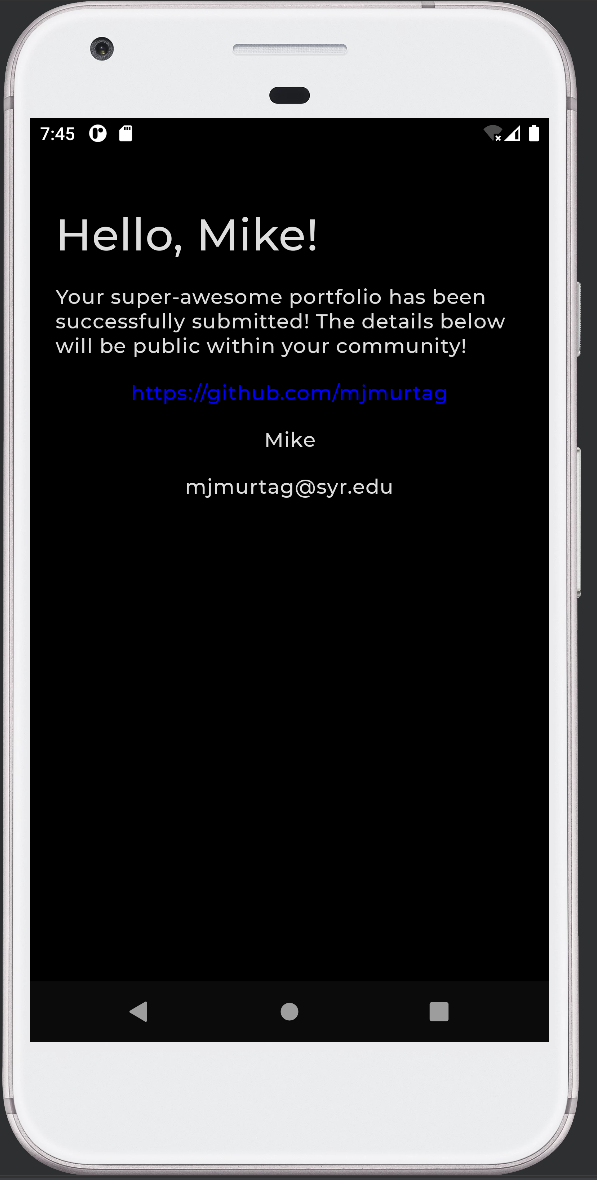
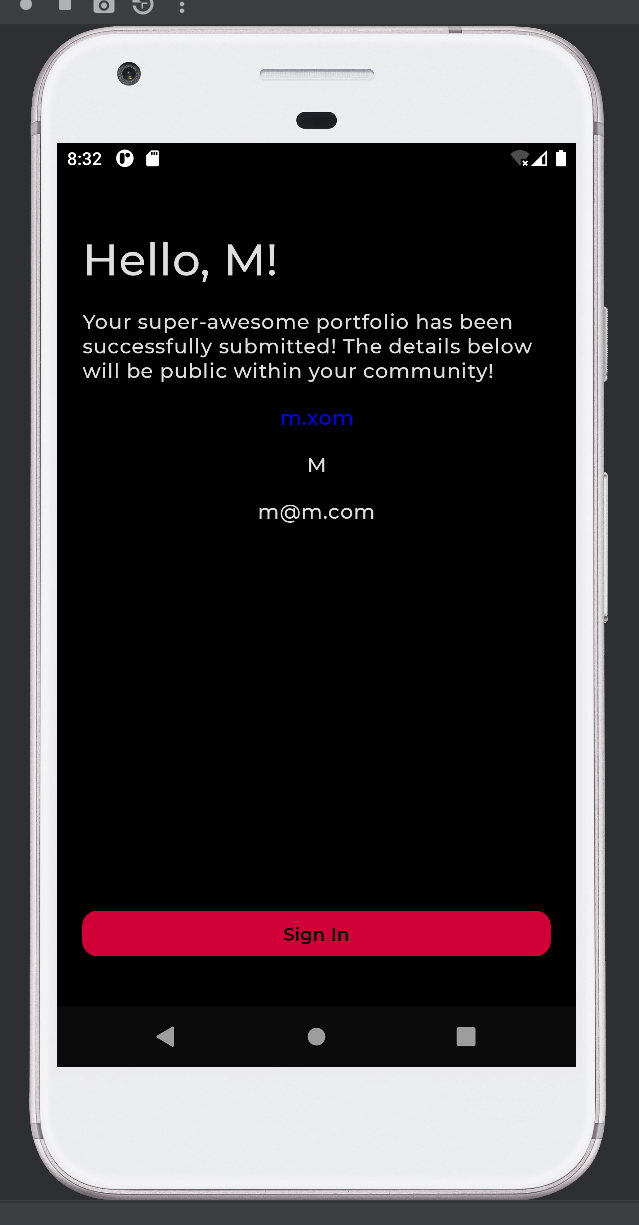
Add missing button, screenshot update

Changed region(s): [[0.0, 0.0, 0.995, 1.0]]

diff --git a/app/src/main/java/com/example/compose/createprofile/confirmation/ConfirmationScreen.kt b/app/src/main/java/com/example/compose/createprofile/confirmation/ConfirmationScreen.kt
@@ -25,15 +25,13 @@ import androidx.compose.foundation.layout.fillMaxWidth
 import androidx.compose.foundation.layout.height
 import androidx.compose.foundation.layout.padding
 import androidx.compose.foundation.lazy.LazyColumn
+import androidx.compose.material.Button
 import androidx.compose.material.Scaffold
 import androidx.compose.material.Text
 import androidx.compose.runtime.Composable
-import androidx.compose.runtime.getValue
-import androidx.compose.runtime.setValue
 import androidx.compose.ui.Alignment
 import androidx.compose.ui.Modifier
 import androidx.compose.ui.graphics.Color
-import androidx.compose.ui.graphics.Color.Companion.Blue
 import androidx.compose.ui.res.stringResource
 import androidx.compose.ui.text.AnnotatedString
 import androidx.compose.ui.text.SpanStyle
@@ -108,6 +106,15 @@ fun Confirm() {
                                 Text(text = user.name, textAlign = TextAlign.Center)
                                 Spacer(modifier = Modifier.height(16.dp))
                                 Text(text = user.email)
+                                Spacer(modifier = Modifier.height(300.dp))
+                                Button(
+                                    onClick = {
+                                    },
+
+                                    modifier = Modifier.fillMaxWidth(),
+                                ) {
+                                    Text(text = stringResource(id = R.string.sign_in))
+                                }
                             }
                         }
                     }
